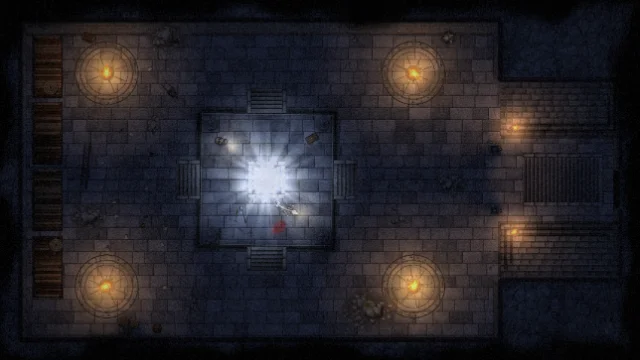
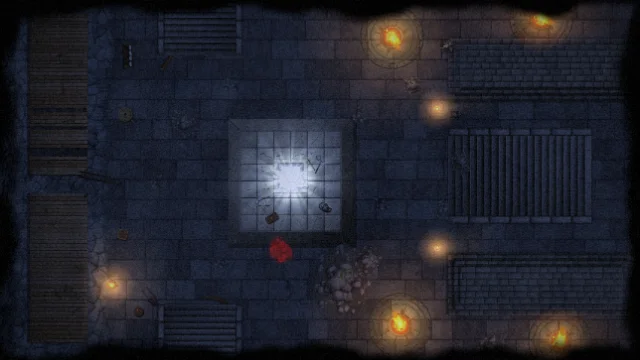
rebuilt the sanctuary after the reference layout
open hall on dark flagstones, scaffolds to the west, chamfered relic dais under the light shaft, braziers on rune circles and the great stair between stepped walls

diff --git a/scripts/exemplos/santuario-da-luz.ts b/scripts/exemplos/santuario-da-luz.ts
@@ -1,76 +1,72 @@
-import { terreno } from '../../src/authoring/construcao.ts';
 import type { Exemplo } from './kit.ts';
 
-/** Santuário da luz (48 × 27 m): salão subterrâneo com o tablado do relicário sob uma luz fria, braseiros sobre círculos rúnicos e a escadaria que sobe a leste. */
+/**
+ * Santuário da luz (48 × 27 m): salão subterrâneo aberto, sem paredes de cômodo. Andaimes de obra a oeste, o tablado do
+ * relicário no meio sob um feixe de luz fria, quatro braseiros sobre círculos rúnicos e a escadaria monumental a leste,
+ * emoldurada por muralhas de alvenaria em degraus. Escadas descem ao norte e ao sul.
+ */
 export const santuarioDaLuz: Exemplo = {
   id: 'santuario-da-luz',
   nome: 'Santuário da luz',
-  descricao: 'Salão subterrâneo de pedra: tablado do relicário banhado por uma luz fria, quatro braseiros sobre círculos rúnicos, escadaria monumental a leste e andaimes de madeira a oeste.',
+  descricao: 'Salão subterrâneo de lajes escuras: tablado do relicário sob um feixe de luz fria, quatro braseiros sobre círculos rúnicos, escadaria monumental entre muralhas a leste e andaimes de obra a oeste.',
   largura: 48,
   altura: 27,
   semente: 7741,
   construir(k) {
     k.estilo({ genre: 'fantasia', palette: 'fantasia-pedra' });
     k.fundo({ kind: 'solid', color: '#06070a' });
-    k.base('rocha.rachada');
+    k.base('lajes.escuras');
+    // Rocha viva na borda oeste e o chão rachado onde a escavação começou.
+    k.pintar('rocha.caverna', { poligono: [[-1, -1], [1.4, -1], [1.2, 28], [-1, 28]], irregular: 0.6 });
+    k.pintar('rocha.rachada', { poligono: [[1.4, 0], [8, 0], [8, 27], [1.2, 27]], irregular: 0.4 });
 
-    // O salão é um cômodo de lajes; a nave da escadaria abre a leste. O tablado fica 0,6 m acima do piso.
-    const salao = k.comodo([[1, 1, 25, 17], [25, 4, 31, 14]], 'salao', { nome: 'Salão do relicário', piso: 'laje.pedra', papel: 'pedra.aparelhada', telhado: null });
-    k.porta([46.5, 13.5], 'arch', { width: 3, state: 'open', material: 'pedra.escura' });
-    k.aplicar(m => terreno(m, [{ acao: 'relevo', altura: 0.6, forma: { retangulo: [15, 8.5, 25, 18.5] } }], 3));
-    for (const [x, y, r] of [[20, 7.6, Math.PI], [20, 19.4, 0], [14.1, 13.5, Math.PI / 2], [25.9, 13.5, -Math.PI / 2]] as const) k.objeto('escada.externa', [x, y], { params: { largura: 3 }, rotation: r, blocks: { move: false, sight: false } });
+    // Andaimes de obra encostados na rocha, a oeste, com cordas e ferramentas.
+    k.objeto('andaime', [4.4, 7], { params: { comprimento: 12, largura: 4.4 }, rotation: Math.PI / 2, blocks: { move: false, sight: false } });
+    k.objeto('andaime', [4.4, 20], { params: { comprimento: 11, largura: 4.4 }, rotation: Math.PI / 2, blocks: { move: false, sight: false } });
+    k.objeto('escada.de-mao', [7.6, 13.4], { params: { comprimento: 3.4 }, rotation: Math.PI / 2 + 0.2 });
+    k.objeto('braseiro', [8.4, 21.4], { scale: 0.9 });
+    k.luz('fogueira', [8.4, 21.4], { radius: 5, intensity: 1.2, color: '#ff9440' });
+    for (const [item, x, y, r, s] of [['rolo-de-corda', 9.4, 8.6, 0, 1.6], ['pilha-de-lenha', 9.6, 4.2, 1.5, 1], ['caixote', 9.2, 17.6, 0.3, 1], ['barril', 10.4, 23.4, 0, 1.1], ['carrinho-de-mao', 11.4, 22.4, 0.9, 1], ['tabua-solta', 16.2, 22.4, 0.3, 1.4], ['tabua-solta', 12.6, 4.6, 2.2, 1.3]] as const) k.objeto(item, [x, y], { rotation: r, scale: s });
 
-    // O relicário: o fosso de onde sobe a luz, o corpo do guardião caído na beira, armas e o baú arrombado.
-    k.objeto('fosso-de-luz', [20, 13.5], { params: { largura: 2.8, cor: 0 }, rotation: 0, blocks: { move: true, sight: false } });
-    k.objeto('ossada', [21.4, 15.6], { rotation: 0.5, scale: 1.2 });
-    k.objeto('armas-caidas', [18.0, 16.2], { rotation: 1.1, scale: 1.2 });
-    k.objeto('bau', [23.4, 10.4], { rotation: -0.5 });
-    k.objeto('escudos-empilhados', [16.6, 10.6], { rotation: 0.4 });
-    for (const [x, y] of [[15.8, 9.3], [24.2, 9.3], [15.8, 17.7], [24.2, 17.7]] as const) k.objeto('coluna-arruinada', [x, y], { scale: 1.3, rotation: 0 });
-    k.presenca('ordem.sangue', { disco: [21.0, 17.2], raio: 0.45, irregular: 0.8 }, 0.45);
+    // O tablado do relicário: estrado de pedra em chanfro, o fosso de luz, o guardião caído, armas e o sangue.
+    k.objeto('tablado', [21.8, 13.6], { params: { largura: 9.4 }, rotation: 0, blocks: { move: false, sight: false } });
+    k.objeto('fosso-de-luz', [21.8, 13.2], { params: { largura: 2.6, cor: 0 }, rotation: 0 });
+    k.objeto('ossada', [21.6, 13.4], { rotation: 0.4, scale: 1.8 });
+    k.objeto('armas-caidas', [23.6, 12.4], { rotation: 1.4, scale: 1.3 });
+    k.objeto('armas-caidas', [19.8, 15.2], { rotation: -0.6, scale: 1.1 });
+    k.objeto('bau', [20.4, 16.4], { rotation: -0.5 });
+    k.objeto('escudos-empilhados', [24.4, 15.6], { rotation: 0.8 });
+    k.presenca('ordem.sangue', { disco: [20.8, 18.9], raio: 0.5, irregular: 0.8 }, 0.55);
+    k.luz('feixe', [21.8, 13.4], { radius: 5.5, intensity: 1.25 });
 
-    // Braseiros sobre círculos rúnicos, dois de cada lado do tablado.
-    for (const [x, y] of [[8, 5.5], [31, 5.5], [8, 21.5], [31, 21.5]] as const) {
-      k.objeto('circulo-runico', [x, y], { params: { raio: 2.4, raios: 8 }, rotation: k.rng() });
-      k.objeto('braseiro', [x, y], { rotation: k.rng() * 6, scale: 1.4 });
-      k.luz('fogueira', [x, y], { radius: 7.5, intensity: 1.3, color: '#ff9a3c' });
+    // Quatro braseiros sobre círculos rúnicos.
+    for (const [x, y] of [[29.4, 2.8], [30, 24.4], [40.6, 1.4], [42, 25.6]] as const) {
+      k.objeto('circulo-runico', [x, y], { params: { raio: 2.4, raios: 8 }, rotation: (x * 0.37) % 1 });
+      k.objeto('braseiro', [x, y], { rotation: (y * 0.7) % 6, scale: 2.2 });
+      k.luz('fogueira', [x, y], { radius: 7.5, intensity: 1.7, color: '#ff7a24' });
     }
 
-    // Escadaria monumental a leste, entre muralhas de alvenaria em degraus.
-    k.objeto('escada.pedra', [42.2, 13.5], { params: { largura: 6.4, comprimento: 6 }, rotation: Math.PI / 2, blocks: { move: false, sight: false } });
-    k.objeto('muralha-em-degraus', [42.0, 8.2], { params: { largura: 9, profundidade: 4, degraus: 3 }, rotation: 0 });
-    k.objeto('muralha-em-degraus', [42.0, 18.8], { params: { largura: 9, profundidade: 4, degraus: 3 }, rotation: Math.PI });
-    for (const y of [9.6, 17.4]) { k.objeto('braseiro', [38.6, y], { scale: 0.8 }); k.luz('tocha', [38.6, y], { radius: 6 }); }
-    k.objeto('estandarte', [37.2, 11.2], { params: { cor: 1 }, rotation: Math.PI / 2 });
-    k.objeto('estandarte', [37.2, 15.8], { params: { cor: 1 }, rotation: Math.PI / 2 });
+    // A escadaria monumental a leste, entre muralhas de alvenaria em degraus, com lanternas nos cantos.
+    k.objeto('escada.pedra', [39, 13.2], { params: { largura: 4, comprimento: 6 }, rotation: Math.PI / 2, scale: 1.8, blocks: { move: false, sight: false } });
+    k.objeto('muralha-em-degraus', [40.6, 5.2], { params: { largura: 15, profundidade: 4.6, degraus: 3 }, rotation: 0 });
+    k.objeto('muralha-em-degraus', [40.6, 21.4], { params: { largura: 15, profundidade: 4.6, degraus: 3 }, rotation: Math.PI });
+    for (const y of [8.2, 18.6]) { k.objeto('lanterna-de-poste', [32.8, y]); k.luz('lanterna', [32.8, y], { radius: 4.5, intensity: 1.1, color: '#ff9a40' }); }
+    k.objeto('estandarte', [34.2, 8.6], { params: { cor: 1 }, rotation: Math.PI / 2 });
 
-    // Andaimes e tralha de obra a oeste; entulho e cordas.
-    for (const y of [5, 10, 15, 20]) k.objeto('cais-segmento', [3.6, y], { params: { comprimento: 4.6, largura: 2.2 }, rotation: Math.PI / 2, blocks: { move: false, sight: false } });
-    k.objeto('rolo-de-corda', [3.8, 6.6], { rotation: 0, scale: 1.5 });
-    k.objeto('rolo-de-corda', [4.2, 18.4], { rotation: 1, scale: 1.4 });
-    k.objeto('escada.de-mao', [6.4, 12.4], { params: { comprimento: 3.4 }, rotation: 0.1 });
-    k.objeto('pilha-de-caixotes', [9.6, 24.4], { rotation: 0.3 });
-    k.objeto('barril', [11.8, 24.6]); k.objeto('barril.deitado', [6.6, 2.8], { rotation: 0.4 });
-    for (const [x, y, s] of [[27.6, 23.2, 2.4], [12.4, 2.8, 1.8], [33.8, 13.8, 1.4], [6.6, 16.2, 1.6]] as const) k.objeto('escombros', [x, y], { scale: s, rotation: 0 });
-    for (const [x, y] of [[26.4, 2.6], [14.2, 22.8], [29.6, 16.2], [11.6, 9.4]] as const) k.objeto('seixos', [x, y], { scale: 1.5 });
-    k.objeto('carrinho-de-mao', [12.8, 6.8], { rotation: 0.8 });
-    k.objeto('pilha-de-ossos', [33.6, 2.8], { rotation: 0.2 });
-    k.espalhar('bagunca', { poligono: [[6, 3], [13, 3], [13, 24], [6, 24]] }, { densidade: 0.1 });
-    k.espalhar('caixotes', { poligono: [[25, 19], [36, 19], [36, 25], [25, 25]] }, { densidade: 0.12 });
+    // Escadas que descem ao norte e ao sul.
+    k.objeto('escada.pedra', [15, 1.6], { params: { largura: 4, comprimento: 3.2 }, rotation: 0, scale: 1.6, blocks: { move: false, sight: false } });
+    k.objeto('escada.pedra', [15, 25.4], { params: { largura: 4, comprimento: 3.2 }, rotation: Math.PI, scale: 1.6, blocks: { move: false, sight: false } });
 
-    // A luz fria que desce de uma abertura no teto sobre o fosso, e duas velas no tablado.
-    k.luz('feixe', [20, 13.5], { radius: 7.5, intensity: 1.6 });
-    k.luz('vela', [17.4, 11.0]);
-    k.luz('vela', [22.6, 16.0]);
+    // Entulho grande ao sul do tablado e escombros pelo salão.
+    for (const [x, y, s] of [[25.6, 21.2, 3.4], [27.6, 19.6, 1.6], [13.8, 9.2, 1.4], [34.6, 12.2, 1.2], [36.8, 26.2, 1.6], [31, 6.4, 1.1]] as const) k.objeto('escombros', [x, y], { scale: s, rotation: (x * 0.3) % 3 });
+    for (const [x, y] of [[17.2, 6.4], [27, 8.6], [16.4, 19.8], [33.2, 15.8], [11.6, 13.6], [28.6, 15.4]] as const) k.objeto('seixos', [x, y], { scale: 1.5, rotation: x });
+    k.objeto('pilha-de-ossos', [33.6, 3.4], { rotation: 0.2 });
 
-    k.clima('apagao', { time: '23:30', ambient: { color: '#5f72a6', intensity: 0.46 }, sun: null, tempo: { fog: 0.12 } });
-    k.acabamento(null, { vignette: 0.55, saturation: 0.95, tint: '#e6ecff', edges: { kind: 'dark', amount: 0.45 }, glow: 0.75 });
-    k.guardarClima('ritual', 'Ritual em curso', undefined, { tempo: { embers: 0.4, fog: 0.25 } });
+    k.clima('apagao', { time: '23:30', ambient: { color: '#6f80aa', intensity: 0.66 }, sun: null, tempo: { fog: 0.2, dust: 0.15 } });
+    k.acabamento(null, { vignette: 0.5, saturation: 1.0, tint: '#dde6ff', edges: { kind: 'dark', amount: 0.35 }, glow: 0.95 });
+    k.guardarClima('ritual', 'Ritual em curso', undefined, { tempo: { embers: 0.4, fog: 0.3 } });
 
-    k.notaDeComodo(salao, {
-      leitura: 'Um feixe de luz branca, sem origem, cai sobre o tablado. Em volta, quatro braseiros ardem sobre círculos gravados no chão.',
-      notasMestre: 'Quem apagar os quatro braseiros apaga também a luz do relicário, e o guardião se levanta.',
-    });
-    k.notas('Santuário da luz — o relicário de uma ordem extinta, no fundo de uma mina. A escadaria leste leva à superfície; os andaimes oeste são dos saqueadores que chegaram primeiro.');
+    k.regiao([[17, 9], [26.6, 9], [26.6, 18.4], [17, 18.4]], 'trigger', { nome: 'Tablado do relicário', texto: 'Um feixe de luz branca, sem origem, cai sobre o tablado. O guardião jaz na beira do fosso, ainda agarrado à espada.' });
+    k.notas('Santuário da luz — o relicário de uma ordem extinta, no fundo de uma mina. A escadaria leste leva à superfície; os andaimes oeste são dos saqueadores que chegaram primeiro. Quem apagar os quatro braseiros apaga também a luz do relicário, e o guardião se levanta.');
   },
 };
